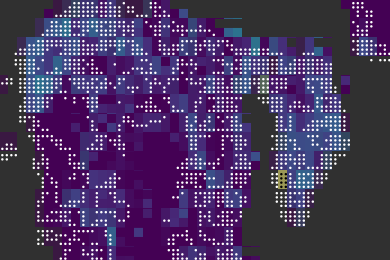
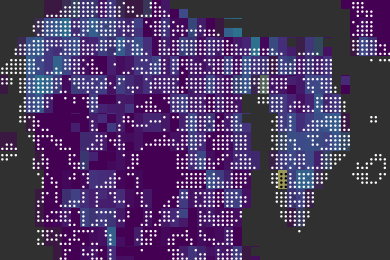
Docs: coastlines (:coast, --coast off) in the README and architecture; the website's screenshots retaken with coastlines

diff --git a/site/index.html b/site/index.html
@@ -63,7 +63,7 @@
       </div>
     </div>
     <figure>
-      <img src="images/terminal-pixels.png" alt="The terminal viewer in an xterm with sixel graphics: ice surface velocity, masked outside the ice, with elevation contours, statistics at the side and the status line below" loading="lazy" width="1330" height="873">
+      <img src="images/terminal-pixels.png" alt="The terminal viewer in an xterm with sixel graphics: ice surface velocity, masked outside the ice, with elevation contours, statistics at the side and the status line below" loading="lazy" width="1331" height="873">
       <figcaption>The terminal viewer in xterm, with sixel graphics</figcaption>
     </figure>
   </article>
@@ -152,11 +152,12 @@
       <p>Show an ice sheet on the globe, a polar grid in longitude and latitude, or a global grid in polar
         stereographic: <code>--proj latlon</code>, <code>stere north</code>, <code>laea south</code>,
         <code>ortho -40,72</code>. nqv reads where the cells lie from the file's CF grid mapping or its
-        latitudes and longitudes, draws meridians and parallels, and gives the longitude and latitude of a
-        clicked cell. For files that lack it: <code>--grid "stere north"</code>.</p>
+        latitudes and longitudes, draws meridians, parallels and coastlines (on the map's own grid too), and
+        gives the longitude and latitude of a clicked cell. For files that lack it:
+        <code>--grid "stere north"</code>.</p>
       <p>The projections are part of nqv, checked against PROJ, so it stays one file with nothing to install.</p>
     </div>
-    <img src="images/projection.png" alt="The desktop app showing Yelmo's Greenland surface velocity on a globe, with meridians, parallels and surface elevation contours" loading="lazy" width="1280" height="860">
+    <img src="images/projection.png" alt="The desktop app showing Yelmo's Greenland surface velocity on a globe, with meridians, parallels, coastlines and surface elevation contours" loading="lazy" width="1280" height="860">
   </article>
 
   <div class="grid">

diff --git a/README.md b/README.md
@@ -53,6 +53,7 @@ Everything the viewer shows can be set from the command line; each `:` command i
 | `:contour VAR [step=S\|n=N\|levels=A,B,..]`, `off` | `--contour "..."` | contour lines of another variable over the map |
 | `:zoom DIM=A:B [DIM=A:B]`, `off` | `--zoom "lat=50:80 lon=@1:@200"` | part of the map: coordinate values or `@` indices per map dimension; in a projection `x=A:B y=C:D` (km) or `lon=A:B lat=C:D` |
 | `:proj SPEC`, `native` | `--proj SPEC` | maps in a projection (see below) |
+| `:coast on\|off` | `--coast off` | coastlines over maps whose geography is known (on by default) |
 | `:recipe NAME` | `-r NAME` | apply a recipe (see below); `nqv --recipes` lists them |
 | `:save NAME` | | save the current settings as a recipe |
 | `:show diff\|a\|b` | `--show diff\|a\|b` | comparison side |
@@ -100,7 +101,7 @@ In PNGs, contour levels are labelled along the lines and the colour bar has roun
 | `ortho LON,LAT` | a globe centred there |
 | `native` | the grid as stored (the default) |
 
-Where the cells lie comes from the file's CF metadata: a `grid_mapping` (polar stereographic in both variants, Lambert azimuthal equal-area, orthographic, latitude-longitude) with projected x/y in m or km, else 1D latitude and longitude. For files without it, `--grid FILE` takes it from another file with the same grid, and `--grid SPEC` gives the projection of the file's own x/y: CLIMBER-X's NH grids are `--grid "stere north"`. Each pixel goes back through the projections to its cell (nearest or `smooth`), so masks, contours, clicks (now with longitude and latitude) and series work as on the grid; statistics and colour ranges are of the cells shown. `zoom lon=-80:-10 lat=58:85` shows a box; the wheel and a drag zoom and pan in the desktop app. A global latitude-longitude grid can be shown in a polar projection too. The projections are written out in nqv (Snyder 1987) and checked against PROJ.
+Where the cells lie comes from the file's CF metadata: a `grid_mapping` (polar stereographic in both variants, Lambert azimuthal equal-area, orthographic, latitude-longitude) with projected x/y in m or km, else 1D latitude and longitude. For files without it, `--grid FILE` takes it from another file with the same grid, and `--grid SPEC` gives the projection of the file's own x/y: CLIMBER-X's NH grids are `--grid "stere north"`. Each pixel goes back through the projections to its cell (nearest or `smooth`), so masks, contours, clicks (now with longitude and latitude) and series work as on the grid; statistics and colour ranges are of the cells shown. `zoom lon=-80:-10 lat=58:85` shows a box; the wheel and a drag zoom and pan in the desktop app. A global latitude-longitude grid can be shown in a polar projection too. Wherever a map's geography is known, in a projection or on its own grid, coastlines are drawn over it (Natural Earth 1:50m, built in; `--coast off` hides them). The projections are written out in nqv (Snyder 1987) and checked against PROJ.
 
 ```bash
 nqv yelmo.nc -v uxy_s --proj "ortho -40,72" --contour "z_srf step=500" --png greenland.png

diff --git a/docs/architecture.md b/docs/architecture.md
@@ -165,7 +165,9 @@ ice:H_ice  t=124/501  [0, 3500] viridis
 
 A map on its own grid is an index window (`Region`) read with a stride. A map in a projection (`ViewSpec.proj`: a `Target`, projection and bounds) goes the other way: each pixel through the target's inverse to longitude and latitude, then through the grid's forward projection to a fractional cell (arithmetic on uniform axes, a search otherwise; a global longitude axis wraps). The pixel→cell table is kept per grid, target and size, so stepping through time only reads the window of cells it touches. Everything built on `view` (masks, contours, the clicked cell) works unchanged; statistics and colour ranges go back to the cells shown (`native`). The grid's geography comes from its CF `grid_mapping` and projected x/y, else 1D latitude and longitude, else `--grid` (a file, or a projection for the file's own x/y). The projections are written out from Snyder (1987) rather than bound to PROJ, to keep one static binary; tests compare them with PROJ and with Yelmo's `lat2D`/`lon2D`. Meridians and parallels (`graticule`) are segments in pixels, drawn as contours are.
 
-Later: coastlines (Natural Earth, embedded); curvilinear grids known only by 2D latitude and longitude (a KD-tree); masks and contours from a variable on another grid, which the geographic lookup makes possible; more targets (Robinson, Mollweide).
+Coastlines (`coastlines`): Natural Earth 1:50m, public domain, built in (`data/coast50.bin`, 478 KB, made by `examples/coastlines.rs`), projected to pixels through the target, or into a map's own grid through its geography (`cell_pixel`), on every map whose geography is known; computed where the data is and sent with the map (`MapExtras.coast`).
+
+Later: curvilinear grids known only by 2D latitude and longitude (a KD-tree); masks and contours from a variable on another grid, which the geographic lookup makes possible; more targets (Robinson, Mollweide).
 
 ## Wish list (not in v1)
 
